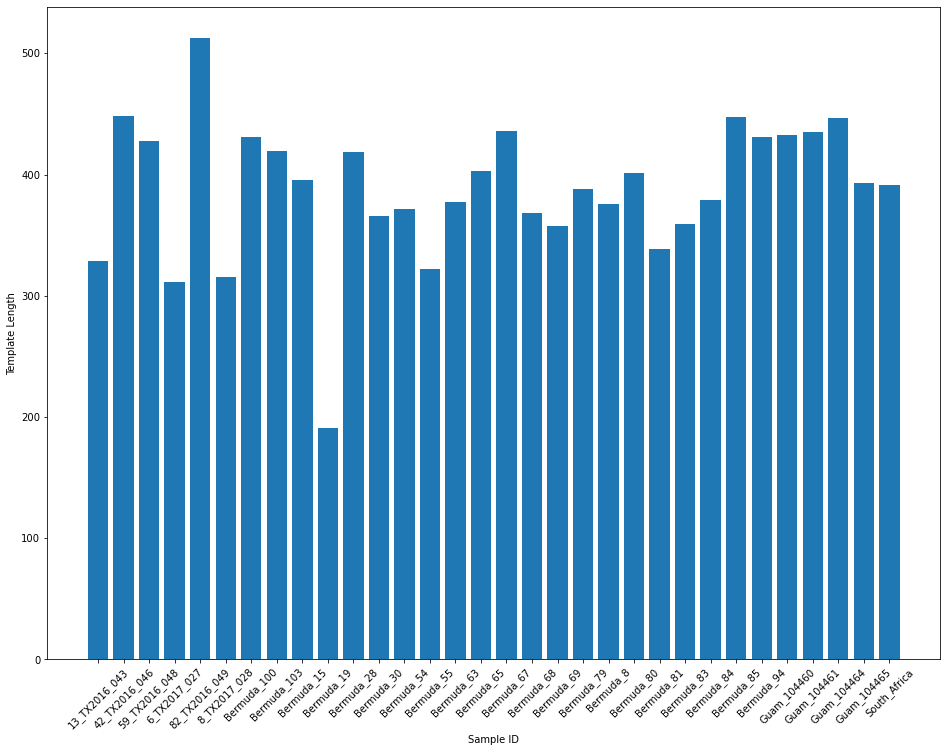
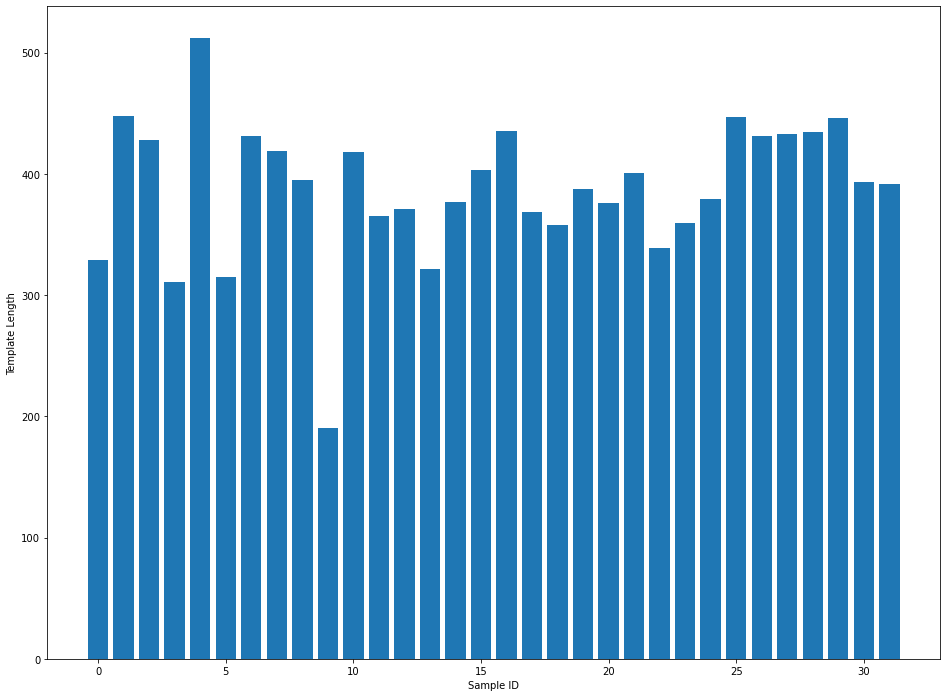
updated analysis

diff --git a/ipyrad09/AssemblyUnmaskedReport.md b/ipyrad09/AssemblyUnmaskedReport.md
@@ -1,0 +1,173 @@
+# Unmasked Reference Assembly (all samples) Report
+
+## Parameters:
+
+```python
+------- ipyrad params file (v.0.9.62)-------------------------------------------
+phys_unmasked                  ## [0] [assembly_name]: Assembly name. Used to name output directories for assembly steps
+/gpfs/ysm/scratch60/dunn/rb956/finalproject/ipyrad09 ## [1] [project_dir]: Project dir (made in curdir if not present)
+Merged: phys_idx1, phys_idx3   ## [2] [raw_fastq_path]: Location of raw non-demultiplexed fastq files
+Merged: phys_idx1, phys_idx3   ## [3] [barcodes_path]: Location of barcodes file
+Merged: phys_idx1, phys_idx3   ## [4] [sorted_fastq_path]: Location of demultiplexed/sorted fastq files
+reference                      ## [5] [assembly_method]: Assembly method (denovo, reference)
+/gpfs/ysm/scratch60/dunn/rb956/finalproject/ipyrad09/reference/physalia_genome.fa ## [6] [reference_sequence]: Location ofreference sequence file
+pairddrad                      ## [7] [datatype]: Datatype (see docs): rad, gbs, ddrad, etc.
+CATG, AATT                     ## [8] [restriction_overhang]: Restriction overhang (cut1,) or (cut1, cut2)
+5                              ## [9] [max_low_qual_bases]: Max low quality base calls (Q<20) in a read
+30                             ## [10] [phred_Qscore_offset]: phred Q score offset (33 is default and very standard)
+6                              ## [11] [mindepth_statistical]: Min depth for statistical base calling
+6                              ## [12] [mindepth_majrule]: Min depth for majority-rule base calling
+10000                          ## [13] [maxdepth]: Max cluster depth within samples
+0.85                           ## [14] [clust_threshold]: Clustering threshold for de novo assembly
+1                              ## [15] [max_barcode_mismatch]: Max number of allowable mismatches in barcodes
+2                              ## [16] [filter_adapters]: Filter for adapters/primers (1 or 2=stricter)
+35                             ## [17] [filter_min_trim_len]: Min length of reads after adapter trim
+2                              ## [18] [max_alleles_consens]: Max alleles per site in consensus sequences
+0.05                           ## [19] [max_Ns_consens]: Max N's (uncalled bases) in consensus
+0.05                           ## [20] [max_Hs_consens]: Max Hs (heterozygotes) in consensus
+4                              ## [21] [min_samples_locus]: Min # samples per locus for output
+0.2                            ## [22] [max_SNPs_locus]: Max # SNPs per locus
+5                              ## [23] [max_Indels_locus]: Max # of indels per locus
+0.5                            ## [24] [max_shared_Hs_locus]: Max # heterozygous sites per locus
+4, 0, 8, 0                     ## [25] [trim_reads]: Trim raw read edges (R1>, <R1, R2>, <R2) (see docs)
+0, 0, 0, 0                     ## [26] [trim_loci]: Trim locus edges (see docs) (R1>, <R1, R2>, <R2)
+p, s, l                        ## [27] [output_formats]: Output formats (see docs)
+                               ## [28] [pop_assign_file]: Path to population assignment file
+                               ## [29] [reference_as_filter]: Reads mapped to this reference are removed in step 3
+```
+
+## Results
+
+### Tables
+Table 1: Reference-based Assembly Results
+
+
+|               |   reads_passed_filter |   refseq_mapped_reads |   clusters_total |   clusters_hidepth |   hetero_est |   error_est |   reads_consens |   loci_in_assembly |
+|:--------------|----------------------:|----------------------:|-----------------:|-------------------:|-------------:|------------:|----------------:|-------------------:|
+| 13_TX2016_043 |           2.2767e+06  |      774251           |           372588 |              12404 |     0.006218 |    0.004456 |            9053 |               6624 |
+| 42_TX2016_046 |           2.6215e+06  |      333652           |           160496 |               7084 |     0.005858 |    0.004764 |            6647 |               5358 |
+| 59_TX2016_048 |           2.50358e+06 |      283569           |           145230 |               5608 |     0.005586 |    0.005082 |            5253 |               4417 |
+| 6_TX2017_027  |           1.41032e+06 |      886779           |           423861 |              15603 |     0.008558 |    0.004084 |            9634 |               6075 |
+| 82_TX2016_049 |      411433           |      146402           |            71094 |               3229 |     0.006157 |    0.005128 |            2989 |               2486 |
+| 8_TX2017_028  |           1.13714e+07 |           1.9375e+06  |           735436 |              36474 |     0.007394 |    0.004745 |           22046 |              11693 |
+| Bermuda_100   |           1.32326e+07 |      937227           |           301693 |              19211 |     0.005014 |    0.004596 |           17518 |              12302 |
+| Bermuda_103   |           2.88689e+06 |           1.0007e+06  |           303447 |              20608 |     0.006228 |    0.004738 |           16776 |              11969 |
+| Bermuda_15    |           2.58688e+06 |      666044           |           239661 |              14005 |     0.00597  |    0.003621 |           11053 |               8058 |
+| Bermuda_19    |           1.48893e+06 |      792430           |           372072 |              10913 |     0.009389 |    0.003273 |            6018 |               2724 |
+| Bermuda_28    |           5.46699e+06 |      367656           |           177119 |               6486 |     0.006275 |    0.004579 |            5773 |               4243 |
+| Bermuda_30    |           2.90583e+06 |      863479           |           304718 |              16537 |     0.005495 |    0.00469  |           13107 |               9469 |
+| Bermuda_54    |           3.88378e+06 |      324160           |           177538 |               4748 |     0.007211 |    0.005522 |            4048 |               2949 |
+| Bermuda_55    |           6.54616e+06 |           2.00818e+06 |           585767 |              40738 |     0.00722  |    0.003885 |           25466 |              14309 |
+| Bermuda_63    |           1.78458e+06 |      606219           |           241587 |              11499 |     0.005809 |    0.005002 |            9607 |               7191 |
+| Bermuda_65    |           2.96695e+06 |      570592           |           232189 |              13072 |     0.005777 |    0.004837 |           11216 |               8251 |
+| Bermuda_67    |           6.6299e+06  |           1.32092e+06 |           405633 |              38092 |     0.007058 |    0.004907 |           31136 |              12913 |
+| Bermuda_68    |           3.96649e+06 |      744717           |           321527 |              12671 |     0.005633 |    0.004917 |           11041 |               8435 |
+| Bermuda_69    |           8.98048e+06 |           1.03661e+06 |           415313 |              17759 |     0.0053   |    0.004194 |           14426 |              10176 |
+| Bermuda_79    |           3.43366e+06 |      284867           |           159701 |               3855 |     0.006778 |    0.006105 |            3366 |               2492 |
+| Bermuda_8     |           1.88972e+06 |      869811           |           300194 |              17696 |     0.006093 |    0.004511 |           14466 |              10061 |
+| Bermuda_80    |           1.01372e+07 |      508848           |           251200 |               9735 |     0.006222 |    0.005666 |            8399 |               6190 |
+| Bermuda_81    |           1.75483e+06 |      937765           |           344152 |              17207 |     0.006129 |    0.004755 |           12357 |               8540 |
+| Bermuda_83    |           2.54108e+06 |           1.05612e+06 |           326085 |              17708 |     0.005671 |    0.003951 |           13920 |              10074 |
+| Bermuda_84    |           3.21148e+06 |      876338           |           364138 |              15132 |     0.005121 |    0.004793 |           12414 |               9414 |
+| Bermuda_85    |           1.70997e+06 |      513685           |           223755 |              11328 |     0.006271 |    0.00478  |            9638 |               7476 |
+| Bermuda_94    |           3.46554e+06 |      459108           |           194240 |               9981 |     0.005221 |    0.004884 |            9228 |               7642 |
+| Guam_104460   |           6.92951e+06 |      566554           |           132534 |              10871 |     0.011023 |    0.005712 |           10210 |               4852 |
+| Guam_104461   |           6.28647e+06 |      380028           |           118456 |               7577 |     0.010672 |    0.00617  |            7108 |               3765 |
+| Guam_104464   |           3.82415e+06 |      465042           |           112983 |               9079 |     0.010224 |    0.005852 |            8605 |               4315 |
+| Guam_104465   |           1.27063e+07 |      977926           |           239066 |              15298 |     0.012214 |    0.005497 |           13597 |               5613 |
+| South_Africa  |           6.76697e+06 |      659257           |           125284 |               7495 |     0.011663 |    0.005766 |            6787 |               2448 |
+
+
+Table 2: Reference-based Assembly Summary Statistics
+
+
+| stat   |   reads_passed_filter |   refseq_mapped_reads |   clusters_total |   clusters_hidepth |   hetero_est |   error_est |   reads_consens |   loci_in_assembly |
+|:-------|----------------------:|----------------------:|-----------------:|-------------------:|-------------:|------------:|----------------:|-------------------:|
+| mean   |           4.64307e+06 |      754889           |           277461 |           14365.7  |   0.00704537 | 0.00485819  |        11340.7  |            7266.38 |
+| std    |           3.4228e+06  |      423550           |           141348 |            9140.54 |   0.00204175 | 0.000691806 |         6195.06 |            3352.94 |
+| min    |      411433           |      146402           |            71094 |            3229    |   0.005014   | 0.003273    |         2989    |            2448    |
+| 25%    |           2.44686e+06 |      463558           |           172963 |            8703.5  |   0.0057505  | 0.004562    |         7027.75 |            4391.5  |
+| 50%    |           3.32257e+06 |      705380           |           246394 |           12537.5  |   0.00622    | 0.0047865   |         9924    |            7333.5  |
+| 75%    |           6.56709e+06 |      937362           |           349148 |           17329.2  |   0.0072635  | 0.00522025  |        13677.8  |            9617    |
+| max    |           1.32326e+07 |           2.00818e+06 |           735436 |           40738    |   0.012214   | 0.00617     |        31136    |           14309    |
+
+
+Table 3: Template Lengths of Samples
+
+
+| index         |   count |    mean |     std |   min |   25% |   50% |    75% |   max |
+|:--------------|--------:|--------:|--------:|------:|------:|------:|-------:|------:|
+| 13_TX2016_043 |    9053 | 483.546 | 307.523 |    35 | 442   |   495 | 527    |  3580 |
+| 42_TX2016_046 |    6647 | 520.33  | 261.501 |    35 | 484   |   503 | 526    |  3607 |
+| 59_TX2016_048 |    5253 | 507.899 | 237.239 |    35 | 483   |   502 | 526    |  3608 |
+| 6_TX2017_027  |    9634 | 464.039 | 349.081 |    35 | 384   |   485 | 520    |  3605 |
+| 82_TX2016_049 |    2989 | 528.962 | 259.185 |    35 | 486   |   506 | 530    |  3519 |
+| 8_TX2017_028  |   22046 | 452.616 | 341.179 |    35 | 379   |   467 | 509    |  3608 |
+| Bermuda_100   |   17518 | 514.45  | 239.693 |    35 | 473   |   500 | 528    |  3608 |
+| Bermuda_103   |   16776 | 513.785 | 305.828 |    35 | 473   |   503 | 530    |  3608 |
+| Bermuda_15    |   11053 | 488.911 | 289.769 |    35 | 448   |   500 | 532    |  3608 |
+| Bermuda_19    |    6018 | 383.074 | 495.422 |    35 |  87   |   367 | 512    |  3608 |
+| Bermuda_28    |    5773 | 511.215 | 308.94  |    36 | 486   |   514 | 536    |  3608 |
+| Bermuda_30    |   13107 | 497.215 | 338.775 |    35 | 465   |   507 | 535    |  3608 |
+| Bermuda_54    |    4048 | 483.551 | 301.787 |    35 | 475   |   511 | 533.25 |  3605 |
+| Bermuda_55    |   25466 | 444.403 | 343.463 |    35 | 259   |   484 | 528    |  3608 |
+| Bermuda_63    |    9607 | 490.59  | 344.686 |    35 | 458.5 |   505 | 534    |  3603 |
+| Bermuda_65    |   11216 | 516.871 | 265.186 |    35 | 488   |   515 | 539    |  3608 |
+| Bermuda_67    |   31136 | 531.655 | 282.019 |    35 | 490   |   517 | 542    |  3608 |
+| Bermuda_68    |   11041 | 494.348 | 285.424 |    35 | 472   |   502 | 532    |  3608 |
+| Bermuda_69    |   14426 | 473.73  | 267.38  |    35 | 452   |   496 | 530    |  3608 |
+| Bermuda_79    |    3366 | 492.206 | 301.754 |    35 | 478   |   512 | 535    |  3595 |
+| Bermuda_8     |   14466 | 479.613 | 299.282 |    35 | 428   |   498 | 532    |  3608 |
+| Bermuda_80    |    8399 | 506.118 | 264.587 |    35 | 482   |   509 | 532    |  3607 |
+| Bermuda_81    |   12357 | 467.441 | 335.277 |    35 | 398   |   499 | 532    |  3608 |
+| Bermuda_83    |   13920 | 493.548 | 352.699 |    35 | 449   |   500 | 534    |  3608 |
+| Bermuda_84    |   12414 | 495.686 | 257.343 |    35 | 462   |   496 | 527    |  3608 |
+| Bermuda_85    |    9638 | 525.045 | 297.551 |    35 | 481   |   505 | 530    |  3608 |
+| Bermuda_94    |    9228 | 513.309 | 228.493 |    35 | 480   |   504 | 531    |  3608 |
+| Guam_104460   |   10210 | 496.569 | 255.19  |    35 | 450   |   494 | 529    |  3598 |
+| Guam_104461   |    7108 | 497.105 | 283.849 |    35 | 450   |   493 | 528    |  3608 |
+| Guam_104464   |    8605 | 494.934 | 263.375 |    35 | 451   |   493 | 528    |  3608 |
+| Guam_104465   |   13597 | 472.863 | 277.93  |    35 | 414   |   480 | 522    |  3608 |
+| South_Africa  |    6787 | 464.505 | 269.798 |    35 | 395   |   482 | 524    |  3608 |
+
+
+### Figures
+
+
+
+
+    Text(0.5, 0, 'Consensus Reads')
+
+
+
+
+    
+![png](AssemblyUnmaskedReport_files/AssemblyUnmaskedReport_11_1.png)
+    
+
+
+
+
+
+    Text(0, 0.5, 'Template Length')
+
+
+
+
+    
+![png](AssemblyUnmaskedReport_files/AssemblyUnmaskedReport_12_1.png)
+    
+
+
+
+
+
+    Text(0, 0.5, 'Count')
+
+
+
+
+    
+![png](AssemblyUnmaskedReport_files/AssemblyUnmaskedReport_13_1.png)
+    
+

diff --git a/ipyrad09/analysis.md b/ipyrad09/analysis.md
@@ -1,4 +1,6 @@
-# PCA analysis
+# Masked Assembly
+
+## PCA analysis
 
     Samples: 29
     Sites before filtering: 101658
@@ -15,9 +17,6 @@
     SNPs (total): 5440
     SNPs (unlinked): 404
     Imputation (null; sets to 0): 100.0%, 0.0%, 0.0%
-
-
-    Subsampling SNPs: 404/5440
 
 
 
@@ -46,9 +45,8 @@
     
 
 
-# Structure Analysis
+## Structure Analysis
 
-    100 previous results loaded for run [comp]
     Samples: 29
     Sites before filtering: 101658
     Filtered (indels): 0
@@ -65,29 +63,117 @@
     SNPs (unlinked): 89
 
 
-    [####################] 100% 0:03:27 | running 40 structure jobs 
 
-
-
-|    |   Nreps |    lnPK |   lnPPK |    deltaK |   estLnProbMean |   estLnProbStdev |
-|---:|--------:|--------:|--------:|----------:|----------------:|-----------------:|
-|  2 |      25 |   0     |   0     | 0         |        -657.38  |          22.7608 |
-|  3 |      25 |   7.476 |   1.332 | 0.0195536 |        -649.904 |          68.1204 |
-|  4 |      25 |   6.144 |  54.244 | 1.20246   |        -643.76  |          45.1108 |
-|  5 |      25 | -48.1   |   0     | 0         |        -691.86  |         103.156  |
-
-
-
-    
-![png](analysis_files/analysis_12_0.png)
-    
-
-
-    [K4] 25/25 results permuted across replicates (max_var=0).
+|    |   Nreps |    lnPK |   lnPPK |   deltaK |   estLnProbMean |   estLnProbStdev |
+|---:|--------:|--------:|--------:|---------:|----------------:|-----------------:|
+|  2 |      20 |   0     |   0     | 0        |        -650.04  |          29.1424 |
+|  3 |      20 |  -2.265 |  38.04  | 0.492212 |        -652.305 |          77.2838 |
+|  4 |      20 | -40.305 |  57.915 | 0.30837  |        -692.61  |         187.81   |
+|  5 |      20 |  17.61  |   0     | 0        |        -675     |          68.5632 |
 
 
 
     
-![png](analysis_files/analysis_15_0.png)
+![png](analysis_files/analysis_11_0.png)
+    
+
+
+    [K4] 20/20 results permuted across replicates (max_var=0).
+
+
+
+    
+![png](analysis_files/analysis_14_0.png)
+    
+
+
+# Unmasked Assembly
+
+## PCA analysis
+
+    Samples: 29
+    Sites before filtering: 205250
+    Filtered (indels): 0
+    Filtered (bi-allel): 5653
+    Filtered (mincov): 154
+    Filtered (minmap): 191734
+    Filtered (subsample invariant): 12116
+    Filtered (minor allele frequency): 0
+    Filtered (combined): 193483
+    Sites after filtering: 12518
+    Sites containing missing values: 11700 (93.47%)
+    Missing values in SNP matrix: 73046 (20.12%)
+    SNPs (total): 12518
+    SNPs (unlinked): 524
+    Imputation (null; sets to 0): 100.0%, 0.0%, 0.0%
+    Subsampling SNPs: 524/12518
+
+
+
+
+
+    Text(0, 0.5, 'PCA1')
+
+
+
+
+    
+![png](analysis_files/analysis_19_1.png)
+    
+
+
+
+
+
+    Text(0, 0.5, 'PCA1')
+
+
+
+
+    
+![png](analysis_files/analysis_20_1.png)
+    
+
+
+## Structure analysis
+
+    Samples: 29
+    Sites before filtering: 205250
+    Filtered (indels): 0
+    Filtered (bi-allel): 5653
+    Filtered (mincov): 201692
+    Filtered (minmap): 191734
+    Filtered (subsample invariant): 12116
+    Filtered (minor allele frequency): 0
+    Filtered (combined): 203521
+    Sites after filtering: 2480
+    Sites containing missing values: 1662 (67.02%)
+    Missing values in SNP matrix: 2472 (3.44%)
+    SNPs (total): 2480
+    SNPs (unlinked): 97
+    [####################] 100% 0:06:32 | running 80 structure jobs 
+
+
+
+|    |   Nreps |   lnPK |   lnPPK |   deltaK |   estLnProbMean |   estLnProbStdev |
+|---:|--------:|-------:|--------:|---------:|----------------:|-----------------:|
+|  2 |      20 |  0     |   0     | 0        |        -863     |          323.105 |
+|  3 |      20 | -0.805 |  70.45  | 0.200537 |        -863.805 |          351.307 |
+|  4 |      20 | 69.645 |  31.945 | 0.263295 |        -794.16  |          121.328 |
+|  5 |      20 | 37.7   |   0     | 0        |        -756.46  |          103.196 |
+
+
+
+    
+![png](analysis_files/analysis_24_0.png)
+    
+
+
+    [K4] 20/20 results permuted across replicates (max_var=0).
+
+
+
+    
+![png](analysis_files/analysis_27_0.png)
     
 

diff --git a/ipyrad09/AssemblyBothReport.md b/ipyrad09/AssemblyBothReport.md
@@ -158,3 +158,16 @@ Table 3: Template Lengths of Samples
 ![png](AssemblyBothReport_files/AssemblyBothReport_12_1.png)
     
 
+
+
+
+
+    Text(0, 0.5, 'Count')
+
+
+
+
+    
+![png](AssemblyBothReport_files/AssemblyBothReport_13_1.png)
+    
+
